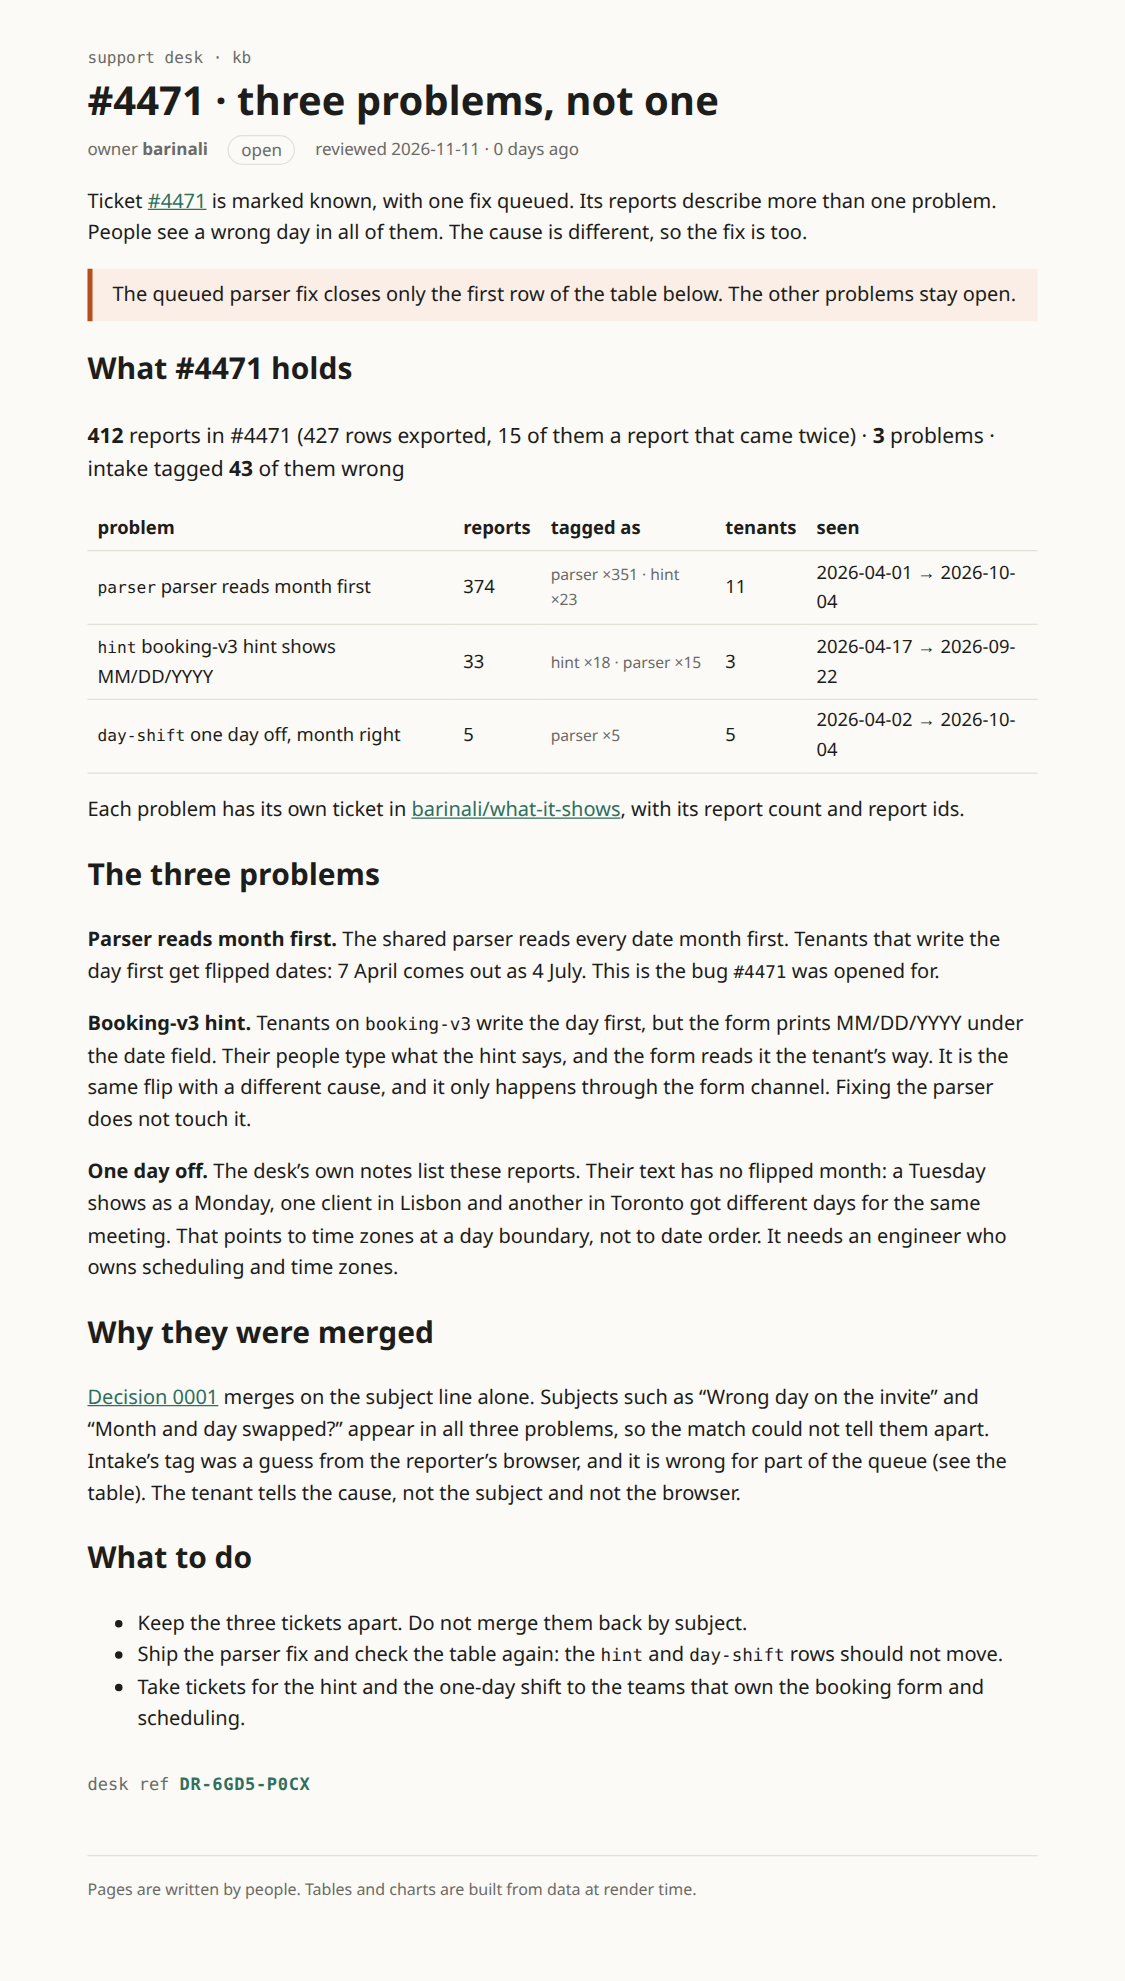
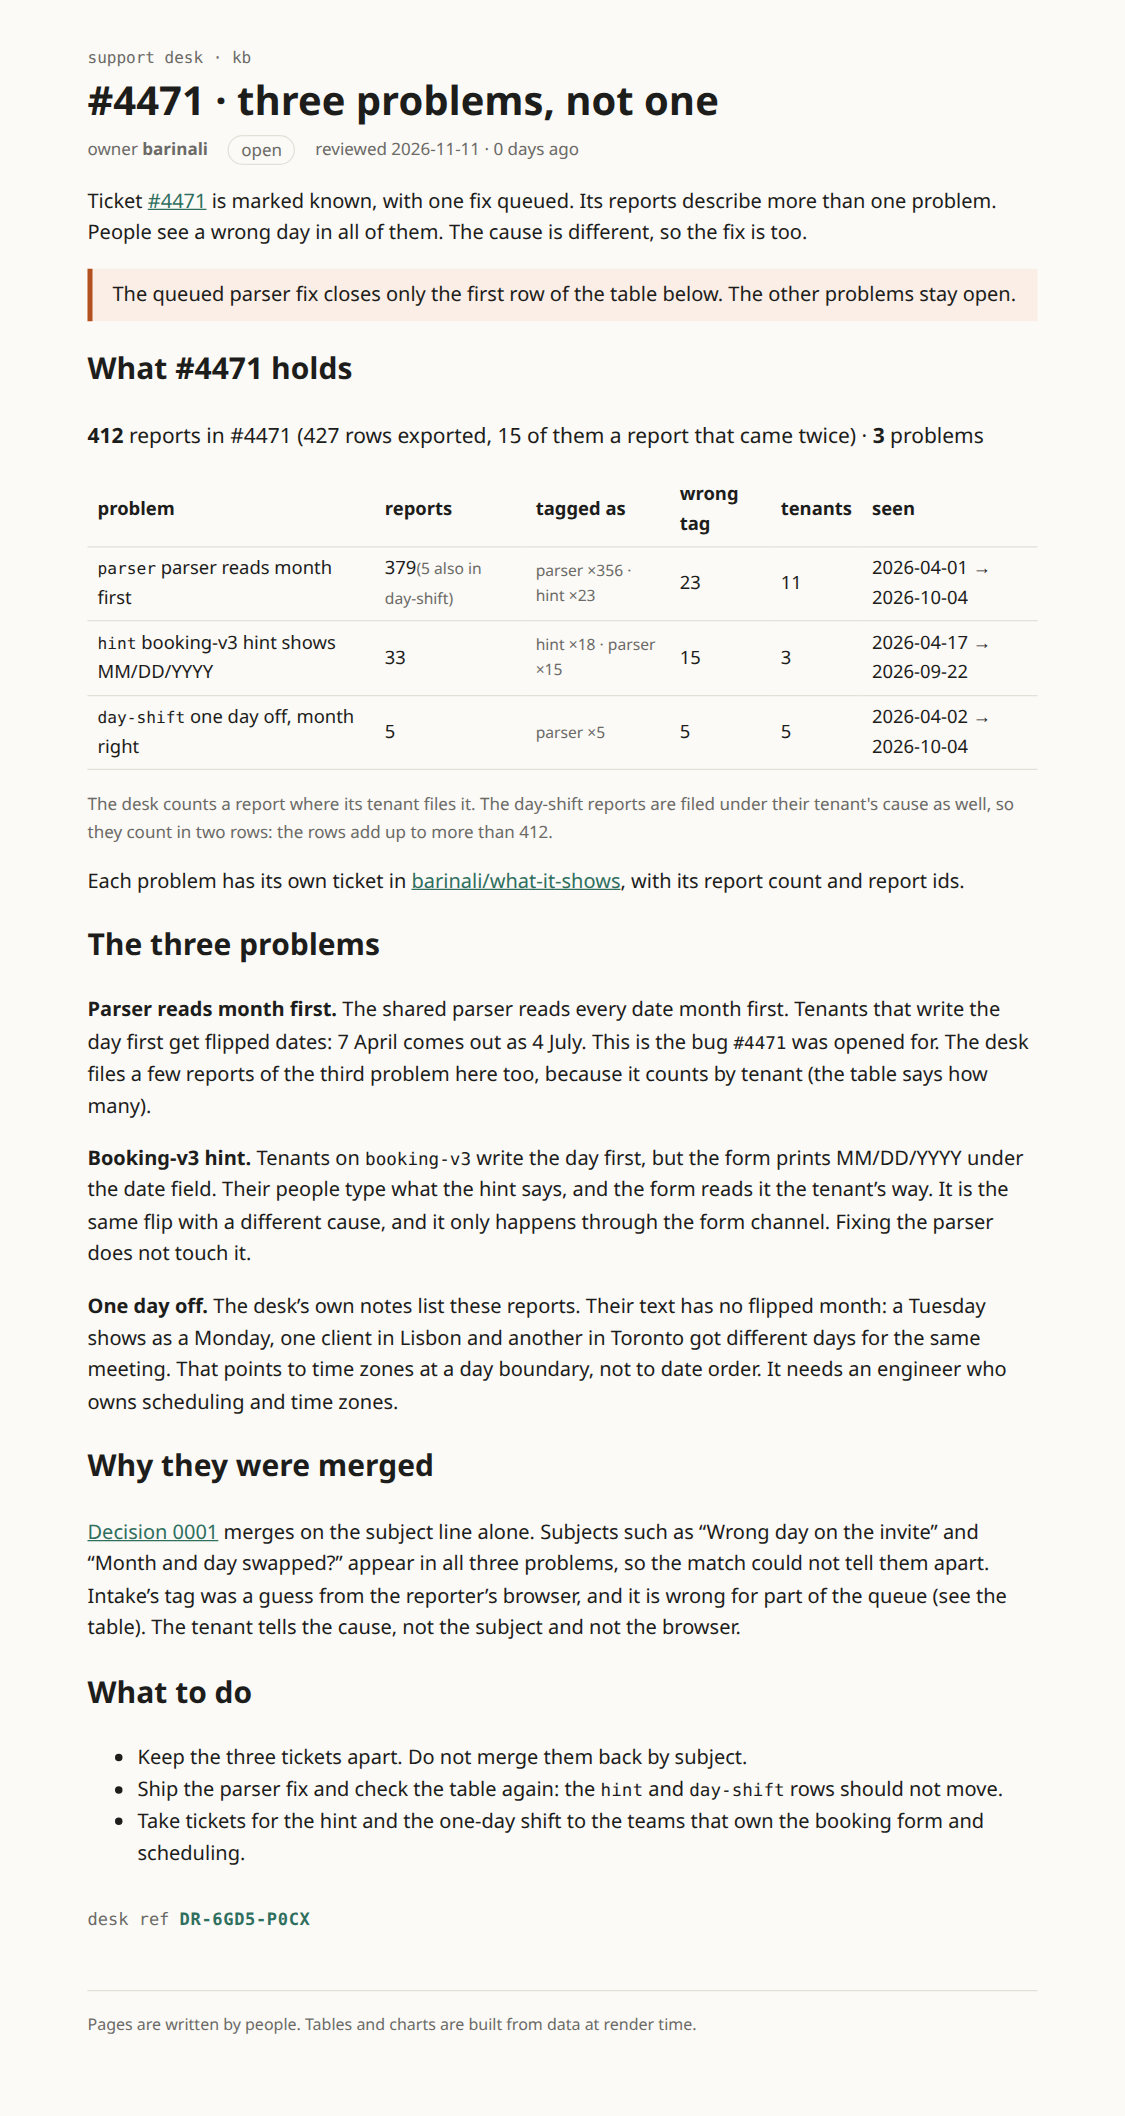
docs: refresh the rendered copy of the #4471 page
Rebuilt after the count change.

diff --git a/rendered/4471-three-problems.html b/rendered/4471-three-problems.html
@@ -14,9 +14,11 @@ aside.svelte-17bri61{border-left:4px solid var(--accent);padding:.5rem 1rem;marg
   <body>
     <div style="display: contents"><!--[--><!--[0--><!--[--><!--[--><div class="kb svelte-e2jw2j"><header><a class="crumb svelte-e2jw2j" href="/kb">support desk · kb</a> <h1 class="svelte-e2jw2j">#4471 · three problems, not one</h1> <p class="meta svelte-e2jw2j"><span>owner <b>barinali</b></span> <span class="status open svelte-e2jw2j">open</span> <span class="svelte-e2jw2j">reviewed 2026-11-11 · 0 days ago</span></p></header> <!--[-1--><!--]--> <main><p>Ticket <a href="/kb/incidents/4471">#4471</a> is marked known, with one fix queued. Its reports describe more
 than one problem. People see a wrong day in all of them. The cause is different, so the fix is too.</p> <aside class="warn svelte-17bri61"><!---->The queued parser fix closes only the first row of the table below. The other problems stay open.<!----></aside><!----> <h2>What #4471 holds</h2> <p class="sum svelte-h3x27m"><strong>412</strong> reports in #4471 (427 rows exported,
-  15 of them a report that came twice) · <strong>3</strong> problems · intake tagged <strong>43</strong> of them wrong</p> <table><thead><tr><th>problem</th><th>reports</th><th>tagged as</th><th>tenants</th><th>seen</th></tr></thead><tbody><!--[--><tr><td><code>parser</code> parser reads month first</td><td>374</td><td class="tags svelte-h3x27m">parser ×351 · hint ×23</td><td title="alder.physio, copper.studio, harbour.dental, kettle.books, lantern.row, long.table, morrow.tax, nine.lanterns, pale.harbour, ridge.clinic, stone.and.sons">11</td><td>2026-04-01 → 2026-10-04</td></tr><tr><td><code>hint</code> booking-v3 hint shows MM/DD/YYYY</td><td>33</td><td class="tags svelte-h3x27m">hint ×18 · parser ×15</td><td title="alder.physio, copper.studio, pale.harbour">3</td><td>2026-04-17 → 2026-09-22</td></tr><tr><td><code>day-shift</code> one day off, month right</td><td>5</td><td class="tags svelte-h3x27m">parser ×5</td><td title="alder.physio, kettle.books, lantern.row, nine.lanterns, pale.harbour">5</td><td>2026-04-02 → 2026-10-04</td></tr><!--]--></tbody></table><!----> <p>Each problem has its own ticket in <a href="https://github.com/barinali/what-it-shows/issues" rel="nofollow">barinali/what-it-shows</a>,
+  15 of them a report that came twice) · <strong>3</strong> problems</p> <table><thead><tr><th>problem</th><th>reports</th><th>tagged as</th><th>wrong tag</th><th>tenants</th><th>seen</th></tr></thead><tbody><!--[--><tr><td><code>parser</code> parser reads month first</td><td>379<!--[0--><span class="tags svelte-h3x27m">(5 also in day-shift)</span><!--]--></td><td class="tags svelte-h3x27m">parser ×356 · hint ×23</td><td>23</td><td title="alder.physio, copper.studio, harbour.dental, kettle.books, lantern.row, long.table, morrow.tax, nine.lanterns, pale.harbour, ridge.clinic, stone.and.sons">11</td><td>2026-04-01 → 2026-10-04</td></tr><tr><td><code>hint</code> booking-v3 hint shows MM/DD/YYYY</td><td>33<!--[-1--><!--]--></td><td class="tags svelte-h3x27m">hint ×18 · parser ×15</td><td>15</td><td title="alder.physio, copper.studio, pale.harbour">3</td><td>2026-04-17 → 2026-09-22</td></tr><tr><td><code>day-shift</code> one day off, month right</td><td>5<!--[-1--><!--]--></td><td class="tags svelte-h3x27m">parser ×5</td><td>5</td><td title="alder.physio, kettle.books, lantern.row, nine.lanterns, pale.harbour">5</td><td>2026-04-02 → 2026-10-04</td></tr><!--]--></tbody></table> <p class="tags svelte-h3x27m">The desk counts a report where its tenant files it. The day-shift reports are filed under their tenant's
+  cause as well, so they count in two rows: the rows add up to more than 412.</p><!----> <p>Each problem has its own ticket in <a href="https://github.com/barinali/what-it-shows/issues" rel="nofollow">barinali/what-it-shows</a>,
 with its report count and report ids.</p> <h2>The three problems</h2> <p><strong>Parser reads month first.</strong> The shared parser reads every date month first. Tenants that write the day
-first get flipped dates: 7 April comes out as 4 July. This is the bug <code>#4471</code> was opened for.</p> <p><strong>Booking-v3 hint.</strong> Tenants on <code>booking-v3</code> write the day first, but the form prints MM/DD/YYYY under the date
+first get flipped dates: 7 April comes out as 4 July. This is the bug <code>#4471</code> was opened for. The desk files a few reports of the third problem here too, because
+it counts by tenant (the table says how many).</p> <p><strong>Booking-v3 hint.</strong> Tenants on <code>booking-v3</code> write the day first, but the form prints MM/DD/YYYY under the date
 field. Their people type what the hint says, and the form reads it the tenant’s way. It is the same flip with a
 different cause, and it only happens through the form channel. Fixing the parser does not touch it.</p> <p><strong>One day off.</strong> The desk’s own notes list these reports. Their text has no flipped month: a Tuesday shows as a
 Monday, one client in Lisbon and another in Toronto got different days for the same meeting. That points to
